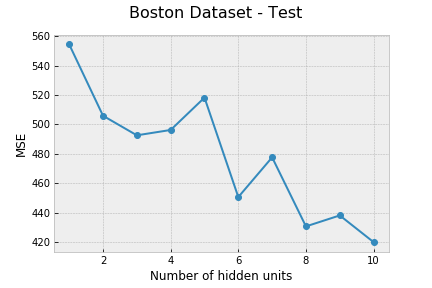
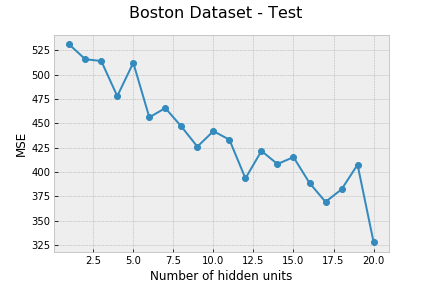
updated results

diff --git a/source/utilities.py b/source/utilities.py
@@ -184,3 +184,69 @@ def return_boston_processed_data():
         X_scaled, Y, test_size = 0.3, random_state = 1)
     
     return x_train, y_train, x_test, y_test
+
+def return_mnist_processed_data():
+    # the data, split between train and test sets
+    (x_train, y_train), (x_test, y_test) = tf.keras.datasets.mnist.load_data(path='mnist.npz')
+    x_train = x_train.reshape(60000, 784)
+    x_test =  x_test.reshape(10000, 784)
+    x_train =x_train.astype('float32')
+    x_test = x_test.astype('float32')
+    x_train /= 255
+    x_test /= 255
+    
+    # convert class vectors to binary class matrices
+    num_classes = 10
+    y_train = tf.keras.utils.to_categorical(y_train, num_classes)
+    y_test = tf.keras.utils.to_categorical(y_test, num_classes)
+    y_train = np.reshape(y_train, (60000,num_classes))
+    y_test = np.reshape(y_test, (10000,num_classes))
+    
+    return x_train, y_train, x_test, y_test
+
+def return_taiwan_processed_data():
+    #Load the data
+    dataset = pd.read_excel("default_data.xls")
+    dataset.index = dataset['ID']
+    dataset.drop('ID',axis=1,inplace=True)
+    dataset['SEX'].value_counts(dropna=False)
+    dataset['EDUCATION'].value_counts(dropna=False)
+    dataset = dataset.rename(columns={'PAY_0': 'PAY_1'})
+    
+    # Clean the data
+    fil = (dataset.EDUCATION == 5) | (dataset.EDUCATION == 6) | (dataset.EDUCATION == 0)
+    dataset.loc[fil, 'EDUCATION'] = 4
+    dataset['EDUCATION'].value_counts(dropna = False)
+    dataset.loc[dataset.MARRIAGE == 0, 'MARRIAGE'] = 3
+    
+    fil = (dataset.PAY_1 == -1) | (dataset.PAY_1==-2)
+    dataset.loc[fil,'PAY_1']=0
+    dataset.PAY_1.value_counts()
+    fil = (dataset.PAY_2 == -1) | (dataset.PAY_2==-2)
+    dataset.loc[fil,'PAY_2']=0
+    dataset.PAY_2.value_counts()
+    fil = (dataset.PAY_3 == -1) | (dataset.PAY_3==-2)
+    dataset.loc[fil,'PAY_3']=0
+    dataset.PAY_3.value_counts()
+    fil = (dataset.PAY_4 == -1) | (dataset.PAY_4==-2)
+    dataset.loc[fil,'PAY_4']=0
+    dataset.PAY_4.value_counts()
+    fil = (dataset.PAY_5 == -1) | (dataset.PAY_5==-2)
+    dataset.loc[fil,'PAY_5']=0
+    dataset.PAY_5.value_counts()
+    fil = (dataset.PAY_6 == -1) | (dataset.PAY_6==-2)
+    dataset.loc[fil,'PAY_6']=0
+    dataset.columns = dataset.columns.map(str.lower)
+     
+    #Standardize the numerical columns
+    col_to_norm = ['limit_bal', 'age', 'bill_amt1', 'bill_amt2', 'bill_amt3', 'bill_amt4',
+           'bill_amt5', 'bill_amt6', 'pay_amt1', 'pay_amt2', 'pay_amt3',
+           'pay_amt4', 'pay_amt5', 'pay_amt6']
+    dataset[col_to_norm] = dataset[col_to_norm].apply(lambda x : (x-np.mean(x))/np.std(x))
+    
+    #Split the data into training and test set
+    X = dataset.iloc[:,:-1].values
+    y = dataset.iloc[:,-1].values
+    x_train,x_test,y_train,y_test = train_test_split(X,y,test_size = 0.3,random_state = 1)
+    
+    return x_train, y_train, x_test, y_test

diff --git a/source/main_iris.py b/source/main_iris.py
@@ -29,7 +29,7 @@ def log_likelihood(W, *logl_args):
 
 #Store results
 results_list = [] # to store result of nested sampling
-x_axis = range(1,101,1) # Number of hidden units
+x_axis = range(1,51,1) # Number of hidden units
 # Architecture for mlp
 input_neurons = x_train.shape[1] # inputs
 output_neurons = 3
@@ -65,6 +65,7 @@ print("\n Time :::", end - start)
 # train metrics
 x = x_train
 y = y_train
+
 logZ, accuracy_list = u.multi_class_return_results(x, y, results_list, 
                                         x_axis, input_neurons, output_neurons)
 

diff --git a/source/main_boston.py b/source/main_boston.py
@@ -27,7 +27,7 @@ def log_likelihood(W, *logl_args):
 
 #Store results
 results_list = [] # to store result of nested sampling
-x_axis = range(1,31,1) # Number of hidden units
+x_axis = range(1,21,1) # Number of hidden units
 # Architecture for mlp
 input_neurons = x_train.shape[1] # inputs
 output_neurons = 1
